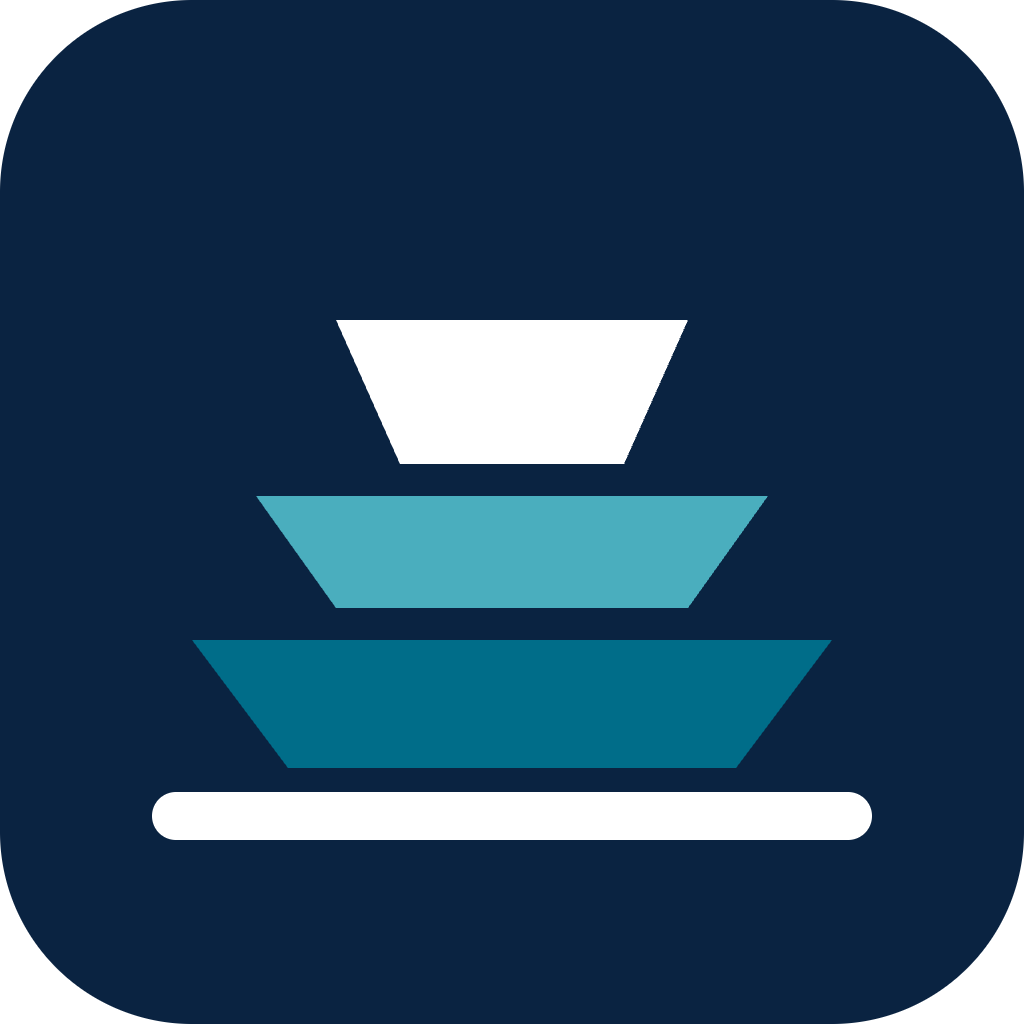
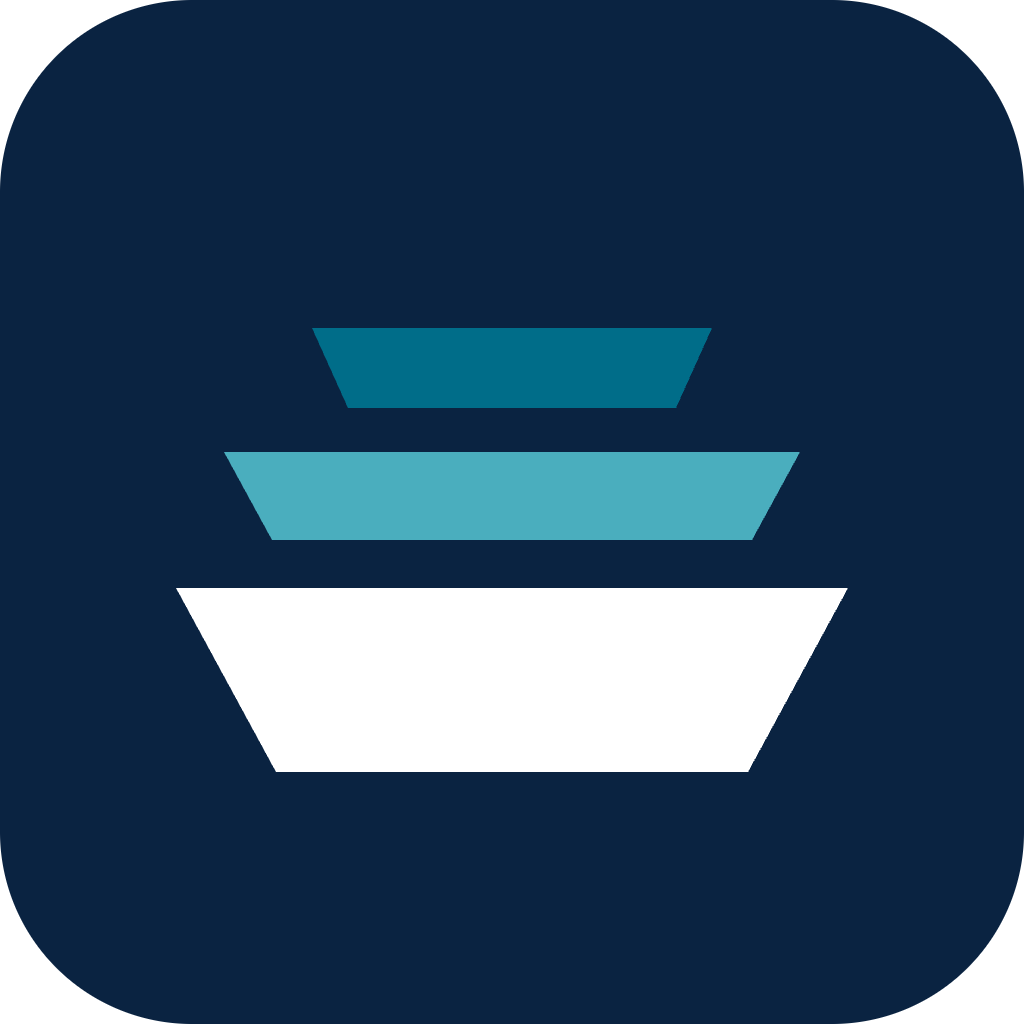
Adopt selected Rising Decks identity

Changed region(s): [[0.125, 0.3125, 0.875, 0.8438]]

diff --git a/brand/README.md b/brand/README.md
@@ -3,7 +3,8 @@
 Canonical offline brand assets for the VesselStack owner-operated chart-room
 identity:
 
-- `icon.svg` — navy rounded-square icon with teal stacked hull/system layers.
+- `icon.svg` — canonical Rising Decks icon: a navy rounded square with a wide
+  white hull below two ascending teal decks.
 - `wordmark.svg` — icon and VesselStack wordmark.
 - `github-banner.svg` — 1280×640 social/banner artwork.
 - `github-banner.png` — rendered 1280×640 upload-ready banner.

diff --git a/README.md b/README.md
@@ -18,7 +18,8 @@ system font fallbacks. Keyboard focus remains visible, controls meet mobile
 touch-target sizing, and reduced-motion preferences are respected.
 
 Canonical icon, wordmark, banner, palette, and social-upload limitations live
-in [`brand/README.md`](brand/README.md).
+in [`brand/README.md`](brand/README.md). The canonical Rising Decks icon uses a
+wide white hull below two ascending teal decks on a navy rounded square.
 
 Run these checks to verify the change:
 
